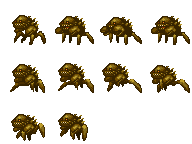
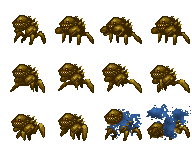
added temp enemy death anim

Changed region(s): [[0.5312, 0.7222, 1.0, 1.0]]

diff --git a/src/scenes/Level_One.js b/src/scenes/Level_One.js
@@ -116,6 +116,11 @@ class Level_One extends Phaser.Scene
             frameRate: 8,
             frames: this.anims.generateFrameNames('enemy',{start: 4, end: 9})
         })
+        this.anims.create({
+            key: 'enemy_death',
+            frameRate: 8,
+            frames: this.anims.generateFrameNames('enemy',{start: 10, end: 11})
+        })
 
         //create enemies
         this.walking_enemy = new Walking_Enemy(this, 100, game.config.height-100, "enemy_idle");
